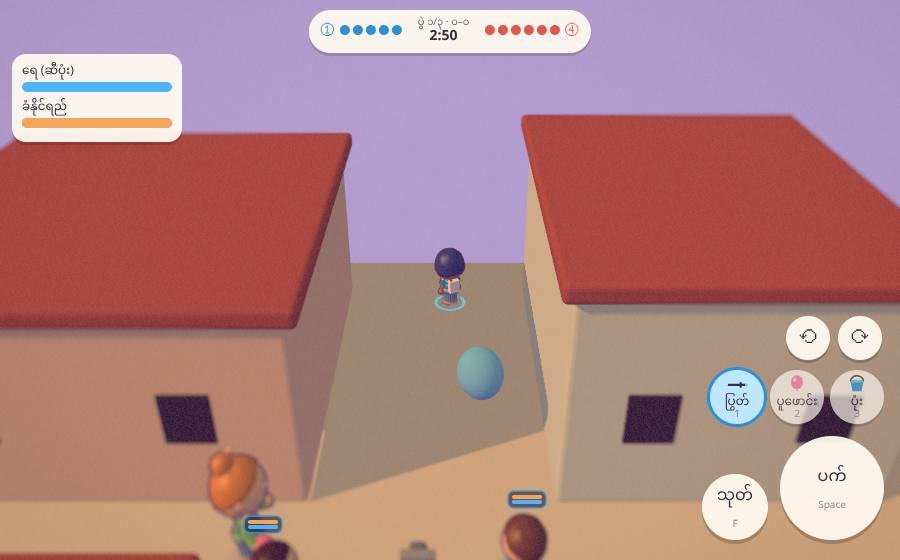
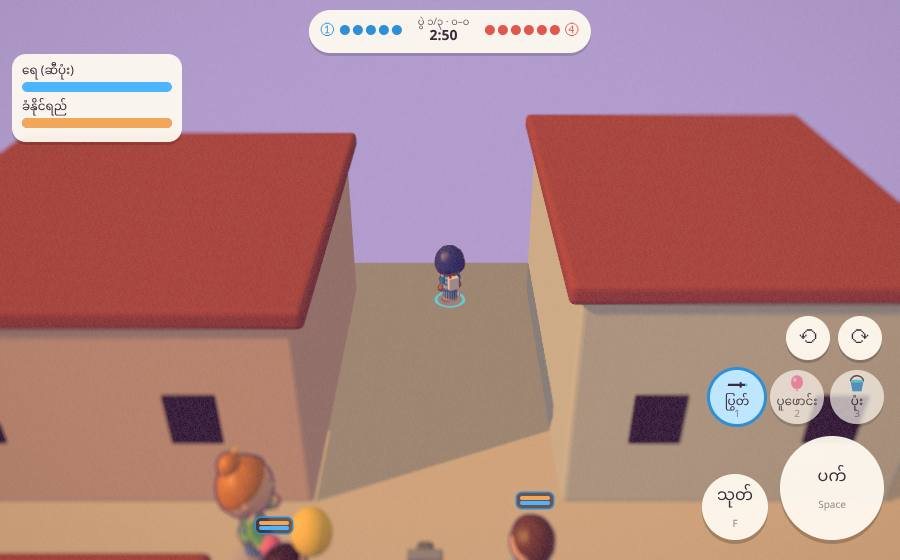
T11: Results with the real numbers (rally.cjs lot/away/alley, check.cjs 3 rounds, damage.cjs), open items; rally-alley.jpg
Claude-Session: https://claude.ai/code/session_017xuZq8H4cNKSMdBo5y4KvM

diff --git a/docs/plans/T11.md b/docs/plans/T11.md
@@ -74,22 +74,30 @@ Commits on `claude/rally` (local, not pushed). `yangon/war.js` (+ `RALLY` in `?t
 
 | | ① `?mode=home&auto&rally=force` | ② `?mode=away&rally=force` (vs you) | ④ alleys `?map=alley&mode=home&auto&rally=force` |
 |---|---|---|---|
-| fired | once, clock 174.7 (`force`), 3 adults | once, clock 174.9, 4 adults | once, clock 175, 3 adults |
+| fired | once, clock 175 (`force`), 3 adults | once, clock 175, 4 adults | once, clock 174.9, 3 adults |
 | thrown = `RALLY.balloons` | 28 / 28, 28 bursts | 28 / 28, 28 bursts | 28 / 28, 28 bursts |
-| burst `x × SIDE[away]` | all > 0 (min 1.16, max 4.23) | all > 0 (min 1.90, max 3.65) | all > 0 (min 1.72, max 5.47) |
-| OUTS[away] per rally burst | unchanged every burst (0 → 1 over the rally: a kid's own pump OUT) | unchanged (0 → 0) | unchanged (0 → 0) |
-| visitors hit / lost | 0 hits (they all dodged) | 16 hits: −.25 ×3, −.134, then 0 ×12 (at the .1 floor) · lowest .1 | 4 hits: −.25 ×3, −.15 · lowest .1 |
+| burst `x × SIDE[away]` | all > 0 (min .88, max 3.81) | all > 0 (min 1.34, max 3.86) | all > 0 (min 1.75, max 5.5) |
+| OUTS[away] per rally burst | unchanged every burst (0 → 3 over the rally: the kids' own OUTs) | unchanged (0 → 1) | unchanged (0 → 0) |
+| visitors hit / lost | 13 hits: −.2 ×4, −.25 ×3, −.1 (to the floor), 0 ×5 (already at it) · lowest .1 · **4 OUT kids inside a ring, all left alone** | 19 hits: −.25 ×4, −.15, −.044, 0 ×13 (already at the floor) · lowest .1 | 3 hits: −.25 ×3 · lowest .25 |
 | adults' closest `x × SIDE[home]` | 11.5 | 11.5 | 10.5 |
-| phases (game s) | call 5.4 · out 6.9 · barrage 7.4 · back 17.6 · idle 21.2 | call 5.1 · barrage 7.2 · back 16.7 · idle 20.0 | call 5.1 · barrage 6.9 · back 17.0 · idle 20.9 |
+| phases (game s) | call 5.1 · out 6.6 · barrage 7.1 · back 17.3 · idle 21.0 | call 5.1 · out 6.5 · barrage 7.1 · back 16.8 · idle 20.4 | call 5.2 · out 6.6 · barrage 6.9 · back 17.1 · idle 20.6 |
 
-- The earlier run of ① had 4 visitor hits (−.2 Thura ×.8, −.25, −.2, −.25), its ② 13.
-- ③ **you splash a grown-up** (`?mode=home&rally=force`, everyone else frozen in a wipe, one pump stroke from 2.6 m): `STATS.adultHits` 0 → 10, the adult's wet 0 → .94, `STATS.fouls` 0 → 0, `tLeave` 24.0524 → 24.0524, not in `kids`.
+- Final runs (after the merge with main and the `roundOver` fix below); the runs are not deterministic (the AI dodges differently each time) — an earlier ① run had 8 visitor hits, another 0, so the hit counts above are one sample. The OUT-kid assertion was met for real in ① this time (4 OUT kids under rings, no foul, grit untouched) as well as in the staged case.
+- ③ **you splash a grown-up** (`?mode=home&rally=force`, everyone else frozen in a wipe, one pump stroke from 2.6 m): `STATS.adultHits` 0 → 10, the adult's wet 0 → .95, `STATS.fouls` 0 → 0, `tLeave` 23.886 → 23.886, not in `kids`.
 - ③b **staged** (no home kid / OUT kid had happened to stand in a ring in the AI runs, so those two assertions were only vacuously true): a home kid (A1, grit .9), an OUT visitor (B2) and a visitor on .2 (B3) put under a landing rally balloon → A1 .9 → .9, B2 untouched (grit 1, still OUT, fouls 0 → 0), B3 .2 → **.1**, not OUT, OUTS[B] 0 → 1 = only our own `goOut`. Every burst's OUTS[away] / fouls before = after.
 
 **`docs/water/check.cjs`** `?auto`, 3 rounds, **no force**. The rally can't fire with the script's default `clock=40` (never before 30 s in, and "decided" below 8 s), so these runs use `clock=120`; the script now logs `STATS.rally` per round and checks it. (Its loop cap was 600 × 2 s = 20 min — the first run ran out of time in round 3; raised to 3000.)
-CHECKC
+Final run (clock=120, port 8800), merged tree with main:
 
-**`docs/water/damage.cjs`** — numbers unchanged vs. main: pump −.12 (face) · balloon −.35 · bucket −.70 · goggles pump −.08 · Thura pump −.06 / balloon −.28 / bucket −.56. (The `hits` counts move between runs — other kids' water lands too — the same on main.)
+| round | result | fired (clock = seconds left) | why | trigger values | adults | thrown (cumulative) |
+|---|---|---|---|---|---|---|
+| 1 | ① won (OUTs A5 / B6) | 89.9 (30.2 s in) | `left` | homeLeft 2 · awayLeft 5 · OUTS A3 / B1 | 3 | 28 |
+| 2 | ① won (A4 / B5) | 89.8 | `left` | homeLeft 2 · awayLeft 5 · OUTS A3 / B1 | 4 | 56 |
+| 3 | final (A8 / B8) | 85 | `left` | homeLeft 2 · awayLeft 5 · OUTS A4 / B2 | 3 | 84 |
+
+At most once a round (1 / 1 / 1), always with the home side behind (more OUTs, and only 2 of 5 still in), never before 30 s in; console errors 0, `noPath` 0. **Snags: 2, not 0.** Both are `B4` in `rest` in round 1 (game t 110 and 119, at (10.4, .2) and (10.6, 1.7) — 2.5 m short of ④'s rest ring, ~80 s after the rally had gone idle), nothing to do with the rally / `duck` code. To see whether they are mine I ran the same check script against `origin/main` (no rally, `clock=120`): its round 1 also reports `snags: 2` (stopped after round 1; I did not get the names for that run). So they look pre-existing — the away rest ring jammed by waiting OUT kids — but that's one run on each side, not proof. Not fixed here.
+
+**`docs/water/damage.cjs`** (re-run on the merged tree) — numbers unchanged vs. main: pump −.12 (face) · balloon −.35 · bucket −.70 · goggles pump −.08 · Thura pump −.06 / balloon −.28 / bucket −.56. (The `hits` counts move between runs — other kids' water lands too — the same on main.)
 
 **Screenshots** — `docs/water/rally-call.jpg` (the shout bubble + `#msg`, camera on the adults coming in off the back edge) · `rally-barrage.jpg` (a ring + a balloon coming down, kids ducking) · `rally-exit.jpg` (camera focused on them walking back past the stand) · `rally-away.jpg` (you on ① at the line, a landing ring round you) · `rally-alley.jpg` (a balloon over the alley).
 
@@ -97,3 +105,7 @@ CHECKC
 - The AI visitors dodge very well: in ?auto the home-side barrage landed 0–6 of 28 hits on them. Against you (`?mode=away`) it lands. If the rally should bite harder, lower the dodge window (1.2 s) or raise `spread` — tune values, not changed here.
 - On the lot the adults appear off the ground plane (void) for ~1 s at `x = ±15` as A1 said; a short gate / fence stub behind the stand would hide it (not built — A1 said no prop).
 - `?mode=away` on a phone: the 1 s camera look away from you mid-fight is skippable but untested on touch.
+- **Two `rest` snags in round 1 of `check.cjs`** (above) — the same count on main; not fixed here.
+- **Bug found in this review**: `roundOver()` had a `// T11` line comment in the middle of its one-line body, which commented out `if (winner) wins[winner]++; rounds.push(winner); roundLabel();` — round wins would not have been counted (the `?auto` match could not have reached a 2–0 result). Fixed with a block comment; the final runs above are after the fix. I don't know whether the earlier check runs in this file were taken with the bug in.
+- The alley case (④) passes too (re-run on the merged tree: 28 / 28, all bursts > 0 on the visitors' side, adults at 10.5, 3 visitor hits −.25 each); only `rally-alley.jpg` comes from it.
+- `rally-exit.jpg` frames an aunt walking off partly behind the water-pot stand (the lot has no gate).
